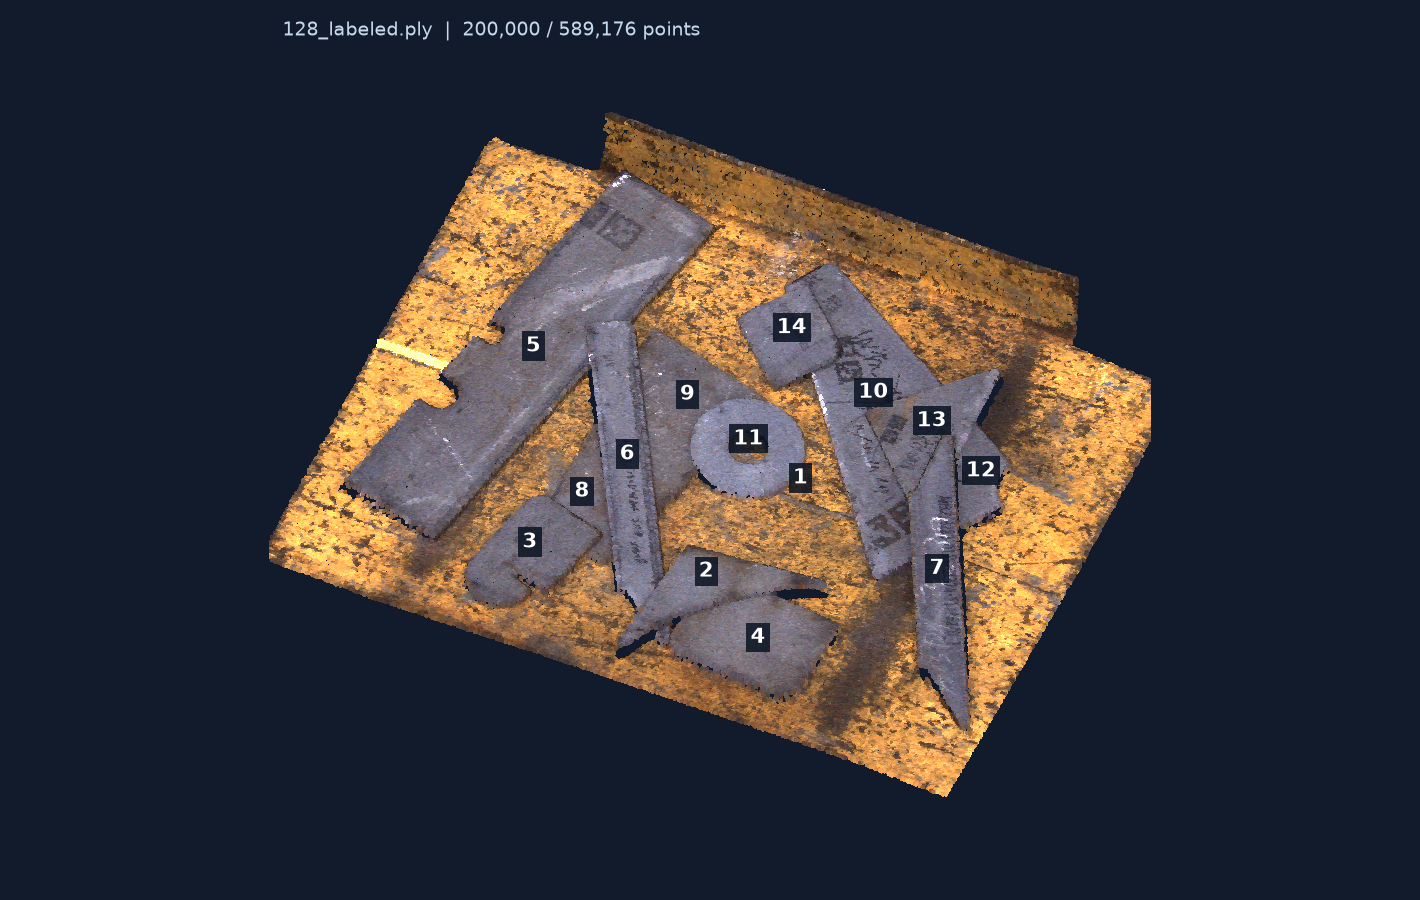
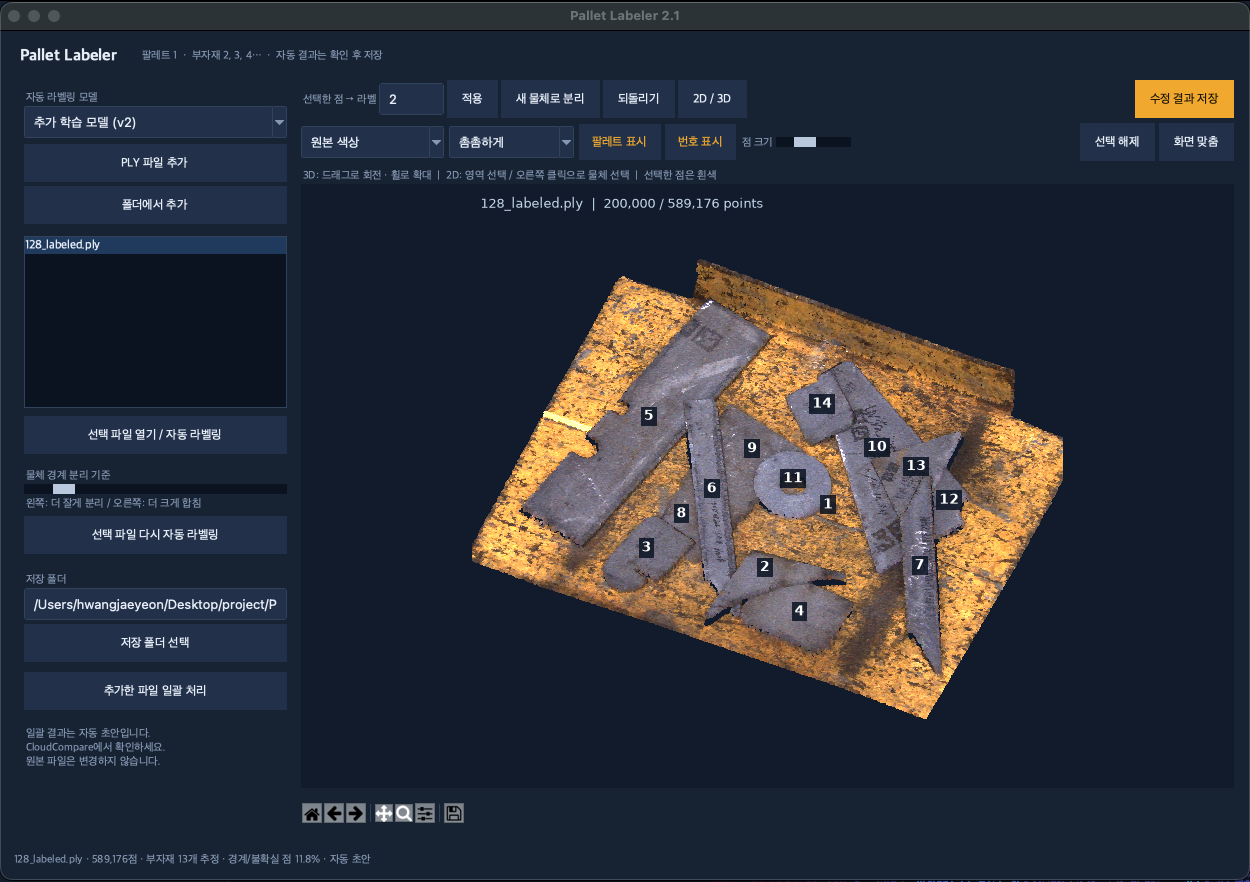
Restyle the Tk chrome to match the point cloud canvas
The default clam widgets sat in light grey around a dark navy canvas, so
the viewer looked pasted onto a different application. New theme.py keys
the whole window to the canvas colour and takes its accent from the
pallet timber in the scans, reserving it for the save action and for
display switches that are currently on. Widget placement is unchanged.

Three clam details needed working around: TButton ships with width=-11,
a minimum of eleven character widths, which padded every label out to
the same slab; the root style keeps light greys for bordercolor and
troughcolor, which leaked pale outlines onto anything not restyled; and
the checkbutton indicator draws its checked state as an X, which read as
"clear", so the two display toggles are now on/off buttons.

macOS draws tk.Button with the native face and ignores -background while
cget still reports what we set, so matplotlib picked light icons for the
toolbar and put them on a light face. Leave those buttons native there.

Claude-Session: https://claude.ai/code/session_01RN1hwruXpbDBRWaWTJheJS

diff --git a/app.py b/app.py
@@ -12,6 +12,7 @@ from matplotlib.path import Path as Polygon
 from engine import read_cloud,infer,save_cloud,LABEL
 from scipy.spatial import cKDTree
 from viewer import BACKGROUND,display_indices,point_colors
+import theme
 
 ROOT=Path(__file__).resolve().parent
 # Matplotlib rasterizes every point on every frame, so a moving view is only as
@@ -24,66 +25,78 @@ SETTLE_MS=220
 
 class App:
  def __init__(self,win):
-  self.win=win;win.title('Pallet Labeler v2.1 · 컬러 점군 보기');win.geometry('1250x850')
+  self.win=win;win.title('Pallet Labeler 2.1');win.geometry('1250x850')
   self.jobs=queue.Queue();self.busy=False;self.ply=None;self.labels=None;self.selected=None;self.current=None;self.model=None
   self.files=[];self.undo=[];self.view3d=True;self.reset_view=True
   self.full_artist=None;self.lod_artist=None;self.moving=False;self.settle_timer=None;self.labels_version=0;self.centers=None
   config_path=ROOT/'model_config.json'
   self.model_options=json.loads(config_path.read_text()) if config_path.exists() else {'기본 모델':{'file':'model.joblib','split':.1}}
   self.active_model_name=next(iter(self.model_options));self.active_model_file=ROOT/self.model_options[self.active_model_name]['file']
-  style=ttk.Style();style.theme_use('clam');style.configure('TButton',padding=7);style.configure('TLabel',padding=3)
+  fonts=theme.apply(win)
   head=ttk.Frame(win,padding=(18,12));head.pack(fill='x')
-  ttk.Label(head,text='PALLET LABELER',font=('',20,'bold')).pack(side='left')
-  ttk.Label(head,text='팔레트 1  ·  부자재 2, 3, 4…  ·  자동 결과는 확인 후 저장').pack(side='left',padx=20)
+  ttk.Label(head,text='Pallet Labeler',style='Wordmark.TLabel').pack(side='left')
+  ttk.Label(head,text='팔레트 1  ·  부자재 2, 3, 4…  ·  자동 결과는 확인 후 저장',style='Muted.TLabel').pack(side='left',padx=20)
   body=ttk.Panedwindow(win,orient='horizontal');body.pack(fill='both',expand=True,padx=16)
   left=ttk.Frame(body,width=265,padding=8);right=ttk.Frame(body);body.add(left,weight=0);body.add(right,weight=1)
-  ttk.Label(left,text='자동 라벨링 모델').pack(anchor='w')
+  ttk.Label(left,text='자동 라벨링 모델',style='Muted.TLabel').pack(anchor='w')
   self.model_choice=tk.StringVar(value=self.active_model_name)
   self.model_combo=ttk.Combobox(left,textvariable=self.model_choice,values=list(self.model_options),state='readonly',width=25);self.model_combo.pack(fill='x',pady=(0,6))
   self.model_combo.bind('<<ComboboxSelected>>',self.change_model)
   ttk.Button(left,text='PLY 파일 추가',command=self.add_files).pack(fill='x')
   ttk.Button(left,text='폴더에서 추가',command=self.add_folder).pack(fill='x',pady=4)
   self.listbox=tk.Listbox(left,width=27,height=10,exportselection=False);self.listbox.pack(fill='x',pady=8)
+  theme.style_listbox(self.listbox,fonts)
   self.listbox.bind('<Double-1>',lambda _:self.open_selected())
   ttk.Button(left,text='선택 파일 열기 / 자동 라벨링',command=self.open_selected).pack(fill='x')
-  ttk.Label(left,text='물체 경계 분리 기준').pack(anchor='w',pady=(12,0))
-  self.split=tk.DoubleVar(value=self.model_options[self.active_model_name]['split']);ttk.Scale(left,from_=.02,to=.35,variable=self.split).pack(fill='x')
-  ttk.Label(left,text='왼쪽: 더 잘게 분리 / 오른쪽: 더 크게 합침',font=('',10)).pack(anchor='w')
+  ttk.Label(left,text='물체 경계 분리 기준',style='Muted.TLabel').pack(anchor='w',pady=(12,0))
+  self.split=tk.DoubleVar(value=self.model_options[self.active_model_name]['split'])
+  theme.slider(left,self.split,.02,.35,.01).pack(fill='x')
+  ttk.Label(left,text='왼쪽: 더 잘게 분리 / 오른쪽: 더 크게 합침',style='Muted.TLabel').pack(anchor='w')
   self.out=tk.StringVar(value=str(ROOT/'results'))
   ttk.Button(left,text='선택 파일 다시 자동 라벨링',command=lambda:self.open_selected(force=True)).pack(fill='x',pady=4)
-  ttk.Label(left,text='저장 폴더').pack(anchor='w',pady=(12,0))
+  ttk.Label(left,text='저장 폴더',style='Muted.TLabel').pack(anchor='w',pady=(12,0))
   ttk.Entry(left,textvariable=self.out,width=27).pack(fill='x')
   ttk.Button(left,text='저장 폴더 선택',command=self.choose_out).pack(fill='x',pady=4)
   ttk.Button(left,text='추가한 파일 일괄 처리',command=self.batch).pack(fill='x',pady=6)
-  ttk.Label(left,text='일괄 결과는 자동 초안입니다.\nCloudCompare에서 확인하세요.\n원본 파일은 변경하지 않습니다.',wraplength=245).pack(anchor='w',pady=8)
+  ttk.Label(left,text='일괄 결과는 자동 초안입니다.\nCloudCompare에서 확인하세요.\n원본 파일은 변경하지 않습니다.',style='Muted.TLabel',wraplength=245).pack(anchor='w',pady=8)
   controls=ttk.Frame(right);controls.pack(fill='x')
   self.label=tk.StringVar(value='2')
-  ttk.Label(controls,text='선택한 점 → 라벨').pack(side='left');ttk.Entry(controls,textvariable=self.label,width=5).pack(side='left')
+  ttk.Label(controls,text='선택한 점 → 라벨',style='Muted.TLabel').pack(side='left')
+  ttk.Entry(controls,textvariable=self.label,width=5).pack(side='left')
   ttk.Button(controls,text='적용',command=self.assign).pack(side='left',padx=3)
   ttk.Button(controls,text='새 물체로 분리',command=self.new_object).pack(side='left')
   ttk.Button(controls,text='되돌리기',command=self.rollback).pack(side='left',padx=3)
   ttk.Button(controls,text='2D / 3D',command=self.toggle).pack(side='left')
-  ttk.Button(controls,text='수정 결과 저장',command=self.save).pack(side='right')
+  ttk.Button(controls,text='수정 결과 저장',style='Accent.TButton',command=self.save).pack(side='right')
   display=ttk.Frame(right);display.pack(fill='x',pady=5)
   self.color_mode=tk.StringVar(value='원본 색상');self.density=tk.StringVar(value='촘촘하게');self.point_size=tk.DoubleVar(value=2.0);self.show_pallet=tk.BooleanVar(value=True);self.show_numbers=tk.BooleanVar(value=True)
   self.color_combo=ttk.Combobox(display,textvariable=self.color_mode,values=['물체별 색상','원본 색상','높이 색상'],state='readonly',width=12);self.color_combo.pack(side='left');self.color_combo.bind('<<ComboboxSelected>>',lambda _:self.draw())
   self.density_combo=ttk.Combobox(display,textvariable=self.density,values=['빠르게','촘촘하게','전체 점'],state='readonly',width=10);self.density_combo.pack(side='left',padx=5);self.density_combo.bind('<<ComboboxSelected>>',lambda _:self.draw())
-  ttk.Checkbutton(display,text='팔레트 표시',variable=self.show_pallet,command=self.draw).pack(side='left')
-  ttk.Checkbutton(display,text='번호 표시',variable=self.show_numbers,command=self.draw).pack(side='left')
-  ttk.Label(display,text='점 크기').pack(side='left');size=ttk.Scale(display,from_=.5,to=5,variable=self.point_size,length=75);size.pack(side='left');size.bind('<ButtonRelease-1>',lambda _:self.draw())
+  self.pallet_btn=self.switch(display,'팔레트 표시',self.show_pallet);self.pallet_btn.pack(side='left')
+  self.number_btn=self.switch(display,'번호 표시',self.show_numbers);self.number_btn.pack(side='left',padx=4)
+  ttk.Label(display,text='점 크기',style='Muted.TLabel').pack(side='left')
+  size=theme.slider(display,self.point_size,.5,5,.1,length=75);size.pack(side='left');size.bind('<ButtonRelease-1>',lambda _:self.draw())
   ttk.Button(display,text='화면 맞춤',command=self.fit_view).pack(side='right')
   ttk.Button(display,text='선택 해제',command=self.clear_selection).pack(side='right',padx=4)
-  ttk.Label(right,text='3D: 드래그로 회전 · 휠로 확대  |  2D: 영역 선택 / 오른쪽 클릭으로 물체 선택  |  선택한 점은 흰색').pack(anchor='w')
+  ttk.Label(right,text='3D: 드래그로 회전 · 휠로 확대  |  2D: 영역 선택 / 오른쪽 클릭으로 물체 선택  |  선택한 점은 흰색',style='Muted.TLabel').pack(anchor='w')
   self.fig=Figure(figsize=(8,6),facecolor=BACKGROUND);self.ax=self.fig.add_subplot(111)
   self.canvas=FigureCanvasTkAgg(self.fig,master=right);self.canvas.get_tk_widget().pack(fill='both',expand=True)
   self.toolbar=NavigationToolbar2Tk(self.canvas,right);self.lasso=None
+  theme.style_toolbar(self.toolbar,fonts)
   self.canvas.mpl_connect('button_press_event',self.pick_instance)
   self.canvas.mpl_connect('scroll_event',self.zoom)
   self.canvas.mpl_connect('button_press_event',self.start_move)
   self.canvas.mpl_connect('button_release_event',self.end_move)
   self.status=tk.StringVar(value='PLY 파일을 추가하고 자동 라벨링을 시작하세요. 제공된 스캐너 좌표와 단위를 사용합니다.')
-  ttk.Label(win,textvariable=self.status,padding=12,wraplength=1200).pack(fill='x')
+  ttk.Label(win,textvariable=self.status,style='Muted.TLabel',padding=12,wraplength=1200).pack(fill='x')
   win.after(100,self.poll);self.draw()
+ def switch(self,parent,text,flag):
+  """On/off control: clam's own checkbutton marks the checked state with an X."""
+  button=ttk.Button(parent,text=text,style='On.TButton' if flag.get() else 'Off.TButton')
+  def flip():
+   flag.set(not flag.get());button.configure(style='On.TButton' if flag.get() else 'Off.TButton');self.draw()
+  button.configure(command=flip)
+  return button
  def change_model(self,event=None):
   if self.busy:self.model_choice.set(self.active_model_name);return
   self.active_model_name=self.model_choice.get();option=self.model_options[self.active_model_name]

diff --git a/theme.py b/theme.py
@@ -1,0 +1,113 @@
+"""Dark instrument styling for the Tk chrome, keyed to the point cloud's own colours.
+
+The panels sit a shade above the scan so the canvas reads as a recessed well, and
+amber - the colour of the pallet timber in the scans - is reserved for the primary
+action and for controls that are currently switched on.
+"""
+import tkinter as tk
+from tkinter import ttk, font as tkfont
+from viewer import BACKGROUND
+
+SCAN=BACKGROUND
+WELL='#0b1320'
+PANEL='#172233'
+CONTROL='#22304a'
+HOVER='#2c3d59'
+BORDER='#31425c'
+TEXT='#e6edf7'
+MUTED='#8496b0'
+ACCENT='#f0a92e'
+ACCENT_DIM='#c9871f'
+ON_ACCENT='#1a1204'
+SELECT='#1f3a5c'
+HANDLE='#b9c8dd'
+
+# Korean UI faces first: the whole interface is Korean and the fallbacks render it poorly.
+FACES=['Apple SD Gothic Neo','Malgun Gothic','Noto Sans KR','Segoe UI','Helvetica Neue']
+
+def _family(root):
+    available={f.lower() for f in tkfont.families(root)}
+    for name in FACES:
+        if name.lower() in available:return name
+    return ''
+
+def apply(root):
+    """Style every ttk class this app uses and return the font set."""
+    family=_family(root)
+    fonts=dict(wordmark=(family,16,'bold'),ui=(family,12),small=(family,11))
+    root.configure(background=PANEL)
+    root.option_add('*TCombobox*Listbox.background',CONTROL)
+    root.option_add('*TCombobox*Listbox.foreground',TEXT)
+    root.option_add('*TCombobox*Listbox.selectBackground',SELECT)
+    root.option_add('*TCombobox*Listbox.selectForeground',TEXT)
+    root.option_add('*TCombobox*Listbox.font',fonts['ui'])
+
+    s=ttk.Style();s.theme_use('clam')
+    # clam's own defaults for these are light greys; anything not restyled below
+    # inherits them and shows up as a bright outline on the dark ground.
+    s.configure('.',background=PANEL,foreground=TEXT,fieldbackground=CONTROL,font=fonts['ui'],
+                bordercolor=BORDER,lightcolor=PANEL,darkcolor=PANEL,troughcolor=WELL,arrowcolor=MUTED,
+                insertcolor=TEXT,selectbackground=SELECT,selectforeground=TEXT,focuscolor=PANEL)
+    s.configure('TFrame',background=PANEL)
+
+    s.configure('TLabel',background=PANEL,foreground=TEXT,font=fonts['ui'])
+    s.configure('Wordmark.TLabel',font=fonts['wordmark'])
+    s.configure('Muted.TLabel',foreground=MUTED,font=fonts['small'])
+
+    # clam draws a bevel from lightcolor/darkcolor; matching them to the fill keeps buttons flat.
+    # clam ships TButton with width=-11, a minimum of 11 character widths, which makes
+    # every button the same slab regardless of its label; 0 lets them size to their text.
+    s.configure('TButton',background=CONTROL,foreground=TEXT,bordercolor=BORDER,lightcolor=CONTROL,darkcolor=CONTROL,focuscolor=PANEL,relief='flat',anchor='center',width=0,padding=(12,8),font=fonts['ui'])
+    s.map('TButton',background=[('pressed',BORDER),('active',HOVER),('disabled',PANEL)],foreground=[('disabled',MUTED)],lightcolor=[('pressed',BORDER),('active',HOVER)],darkcolor=[('pressed',BORDER),('active',HOVER)],bordercolor=[('disabled',PANEL)])
+
+    s.configure('Accent.TButton',background=ACCENT,foreground=ON_ACCENT,bordercolor=ACCENT,lightcolor=ACCENT,darkcolor=ACCENT)
+    s.map('Accent.TButton',background=[('pressed',ACCENT_DIM),('active','#ffbe4a'),('disabled',CONTROL)],foreground=[('disabled',MUTED)],lightcolor=[('pressed',ACCENT_DIM),('active','#ffbe4a')],darkcolor=[('pressed',ACCENT_DIM),('active','#ffbe4a')],bordercolor=[('disabled',BORDER)])
+
+    s.configure('TEntry',fieldbackground=CONTROL,foreground=TEXT,insertcolor=TEXT,bordercolor=BORDER,lightcolor=CONTROL,darkcolor=CONTROL,selectbackground=SELECT,selectforeground=TEXT,padding=(8,6))
+    s.map('TEntry',bordercolor=[('focus',ACCENT)],lightcolor=[('focus',ACCENT)],darkcolor=[('focus',ACCENT)])
+
+    s.configure('TCombobox',fieldbackground=CONTROL,background=CONTROL,foreground=TEXT,arrowcolor=MUTED,bordercolor=BORDER,lightcolor=CONTROL,darkcolor=CONTROL,selectbackground=CONTROL,selectforeground=TEXT,padding=(8,6))
+    s.map('TCombobox',fieldbackground=[('readonly',CONTROL),('disabled',PANEL)],foreground=[('disabled',MUTED)],arrowcolor=[('active',TEXT),('disabled',BORDER)],bordercolor=[('focus',ACCENT)],lightcolor=[('focus',ACCENT)],darkcolor=[('focus',ACCENT)])
+
+    # Display switches: lit by amber lettering on a raised face, so the only solid
+    # amber on screen stays the save action.
+    s.configure('Off.TButton',background=PANEL,foreground=MUTED,bordercolor=BORDER,lightcolor=PANEL,darkcolor=PANEL,padding=(10,7))
+    s.map('Off.TButton',background=[('pressed',CONTROL),('active',CONTROL)],foreground=[('active',TEXT)],lightcolor=[('pressed',CONTROL),('active',CONTROL)],darkcolor=[('pressed',CONTROL),('active',CONTROL)])
+    s.configure('On.TButton',background=CONTROL,foreground=ACCENT,bordercolor=ACCENT,lightcolor=CONTROL,darkcolor=CONTROL,padding=(10,7))
+    s.map('On.TButton',background=[('pressed',HOVER),('active',HOVER)])
+
+    s.configure('TPanedwindow',background=PANEL)
+    s.configure('Sash',background=BORDER,sashthickness=6,gripcount=0,lightcolor=PANEL,darkcolor=PANEL,bordercolor=PANEL)
+
+    return fonts
+
+def slider(parent,variable,low,high,step,length=None):
+    """ttk's themed Scale keeps a pale trough outline here, so draw a plain Tk one instead."""
+    scale=tk.Scale(parent,variable=variable,from_=low,to=high,resolution=step,orient='horizontal',
+                   showvalue=0,background=HANDLE,activebackground=TEXT,troughcolor=WELL,
+                   highlightthickness=0,borderwidth=0,sliderrelief='flat',sliderlength=22,width=10)
+    if length is not None:scale.configure(length=length)
+    return scale
+
+def style_toolbar(toolbar,fonts):
+    """Repaint matplotlib's Tk toolbar to sit on the dark ground.
+
+    macOS draws tk.Button with the native face and ignores -background, while cget still
+    reports whatever we set. Matplotlib picks its icon colour from that reported value, so
+    darkening the buttons there would leave pale glyphs on a pale face; leave them native.
+    """
+    native_button_face=toolbar.tk.call('tk','windowingsystem')=='aqua'
+    toolbar.configure(background=PANEL,borderwidth=0,highlightthickness=0)
+    for child in toolbar.winfo_children():
+        kind=child.winfo_class()
+        if kind in ('Button','Checkbutton'):
+            child.configure(highlightbackground=PANEL,borderwidth=0)
+            if native_button_face:continue
+            child.configure(background=PANEL,foreground=TEXT,activebackground=HOVER,activeforeground=TEXT)
+            if kind=='Checkbutton':child.configure(selectcolor=CONTROL)
+            if getattr(child,'_image_file',None):toolbar._set_image_for_button(child)
+        elif kind=='Label':child.configure(background=PANEL,foreground=MUTED,font=fonts['small'])
+        elif kind=='Frame':child.configure(background=BORDER)
+
+def style_listbox(listbox,fonts):
+    listbox.configure(background=WELL,foreground=TEXT,selectbackground=SELECT,selectforeground=TEXT,font=fonts['ui'],borderwidth=0,highlightthickness=1,highlightbackground=BORDER,highlightcolor=BORDER,activestyle='none')

diff --git a/사용법.md b/사용법.md
@@ -1,12 +1,14 @@
-# v2.1 화면 개선 안내
+# 화면 안내
 
-현재 버전은 스캔 파일에 저장된 **원본 RGB 색상**을 기본으로 보여줍니다. 어두운 배경에서 3D로 회전하거나 마우스 휠로 확대할 수 있습니다. 물체를 합치거나 영역을 나눌 때는 **2D / 3D** 버튼으로 2D에 들어가세요.
+화면 배치는 이전과 같고 색상만 바뀌었습니다. 창 전체가 점군 화면과 같은 어두운 색이며, 강조색은 스캔 속 팔레트 목재의 주황색입니다. **팔레트 표시**와 **번호 표시**는 켜져 있을 때 글자가 주황색이 되고, **수정 결과 저장**은 항상 주황색입니다.
+
+기본은 스캔 파일에 저장된 **원본 RGB 색상**입니다. 어두운 배경에서 3D로 회전하거나 마우스 휠로 확대할 수 있습니다. 물체를 합치거나 영역을 나눌 때는 **2D / 3D** 버튼으로 2D에 들어가세요.
 
 - **원본 색상**: 스캔 당시 색상과 질감. RGB가 없는 파일은 물체별 색상으로 표시합니다.
 - **물체별 색상**: 팔레트는 파란색, 각 부자재는 서로 다른 선명한 색.
 - **높이 색상**: 낮은 곳부터 높은 곳까지 높이에 따른 색상.
 - **빠르게 / 촘촘하게 / 전체 점**: 표시할 점 수. 기본 20만 점입니다. 저장에는 언제나 전체 점을 사용합니다.
-- **팔레트 표시**: 해제하면 부자재만 보입니다. 숨긴 팔레트는 2D 영역 선택에서도 제외됩니다.
+- **팔레트 표시**: 끄면 부자재만 보입니다. 숨긴 팔레트는 2D 영역 선택에서도 제외됩니다.
 - **점 크기 / 번호 표시**: 보기 편한 크기와 번호 표시 여부를 선택합니다.
 - **선택 해제 / 화면 맞춤**: 선택을 풀거나 처음 시점으로 돌아갑니다.
 
@@ -48,7 +50,7 @@
 
 2D 선택은 위에서 내려다본 XY 영역의 모든 점에 적용됩니다. 같은 XY 위치에 여러 높이의 점이 겹친 경우도 함께 선택되므로, 이런 세밀한 수정은 CloudCompare에서 확인하세요. 화면에는 속도를 위해 일부 점만 표시하지만, 영역 선택과 저장은 전체 점에 적용합니다.
 
-분리 기준 슬라이더를 왼쪽으로 움직이면 더 잘게, 오른쪽으로 움직이면 더 크게 묶는 경향이 있습니다. 값을 바꾼 후 **다시 자동 라벨링**을 눌러 적용합니다. v2 기본값은 검증 데이터로 선택한 0.06이며, v1은 0.1입니다. 모델을 선택하면 해당 기본값이 적용됩니다.
+분리 기준 슬라이더를 왼쪽으로 움직이면 더 잘게, 오른쪽으로 움직이면 더 크게 묶는 경향이 있습니다. 값을 바꾼 후 **선택 파일 다시 자동 라벨링**을 눌러 적용합니다. v2 기본값은 검증 데이터로 선택한 0.06이며, v1은 0.1입니다. 모델을 선택하면 해당 기본값이 적용됩니다.
 
 ## 일괄 처리와 저장 형식
 
@@ -92,6 +94,7 @@ Python 3.13과 Tkinter를 사용할 수 있는 환경이 필요합니다. 현재
 ## 파일 구성
 
 - `app.py`: 실행 화면, 미리보기, 수정·저장
+- `theme.py`: 화면 색상과 글꼴 등 표시 설정
 - `engine.py`: 점군 입출력 및 자동 라벨링
 - `model.joblib`: 제공 데이터로 학습한 모델
 - `label.py`: 명령줄 일괄 처리

diff --git a/CHANGELOG.md b/CHANGELOG.md
@@ -6,9 +6,14 @@
 
 ## [Unreleased]
 
+### Added
+- `theme.py`: 화면 색상·글꼴·컨트롤 스타일을 한곳에서 관리합니다.
+
 ### Changed
+- 화면 전체를 점군 캔버스와 같은 어두운 색으로 통일했습니다. 강조색은 스캔 속 팔레트 목재의 주황색이며, 저장 버튼과 켜져 있는 표시 버튼에만 사용합니다. **위젯 배치는 그대로입니다.**
+- 팔레트·번호 표시가 체크박스에서 켜짐/꺼짐 버튼으로 바뀌었습니다. clam 테마의 체크 표시가 ✕ 모양이라 "해제"처럼 읽혔습니다.
 - 3D 회전·확대와 2D 이동이 훨씬 부드러워졌습니다. 화면이 움직이는 동안에는 점을 2만 개만 굵게 그리고, 멈추면 전체 밀도로 다시 그립니다 (58만 점 기준 프레임당 약 404ms → 50ms).
-- 색상·밀도·체크박스 변경과 2D/3D 전환이 성긴 화면을 먼저 그린 뒤 채우는 방식으로 바뀌어 즉시 반응합니다 (약 442ms → 78ms).
+- 색상·밀도·표시 변경과 2D/3D 전환이 성긴 화면을 먼저 그린 뒤 채우는 방식으로 바뀌어 즉시 반응합니다 (약 442ms → 78ms).
 
 ### Fixed
 - 물체 번호 위치 계산과 표시 점 추출을 캐시해, 다시 그릴 때마다 전체 점을 반복 스캔하지 않습니다.
